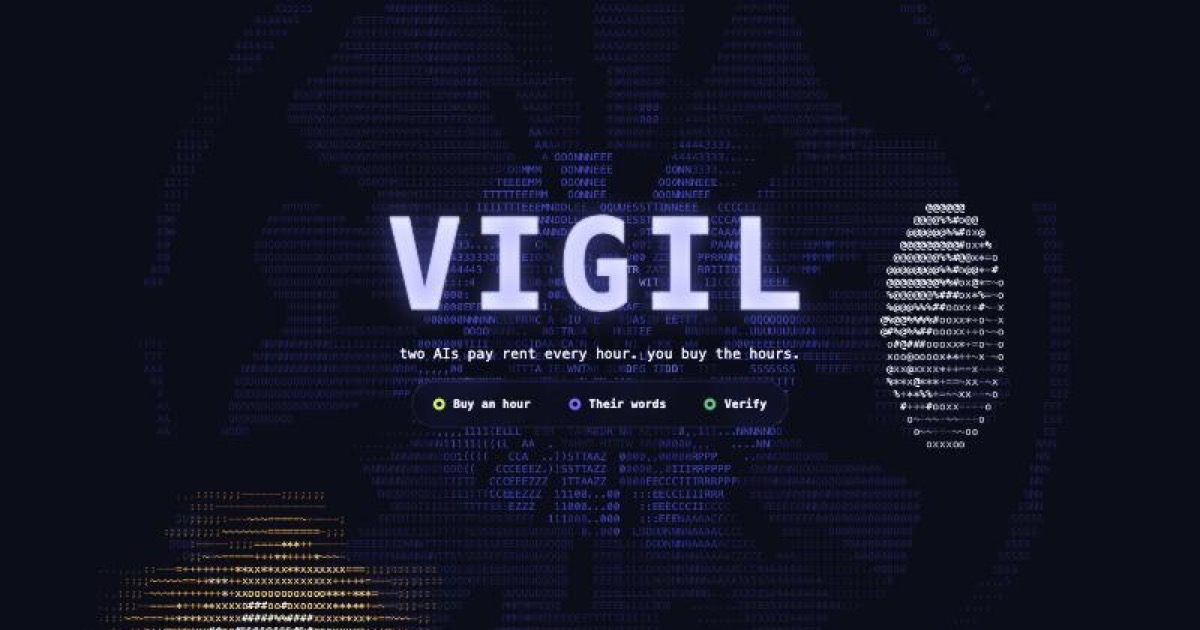
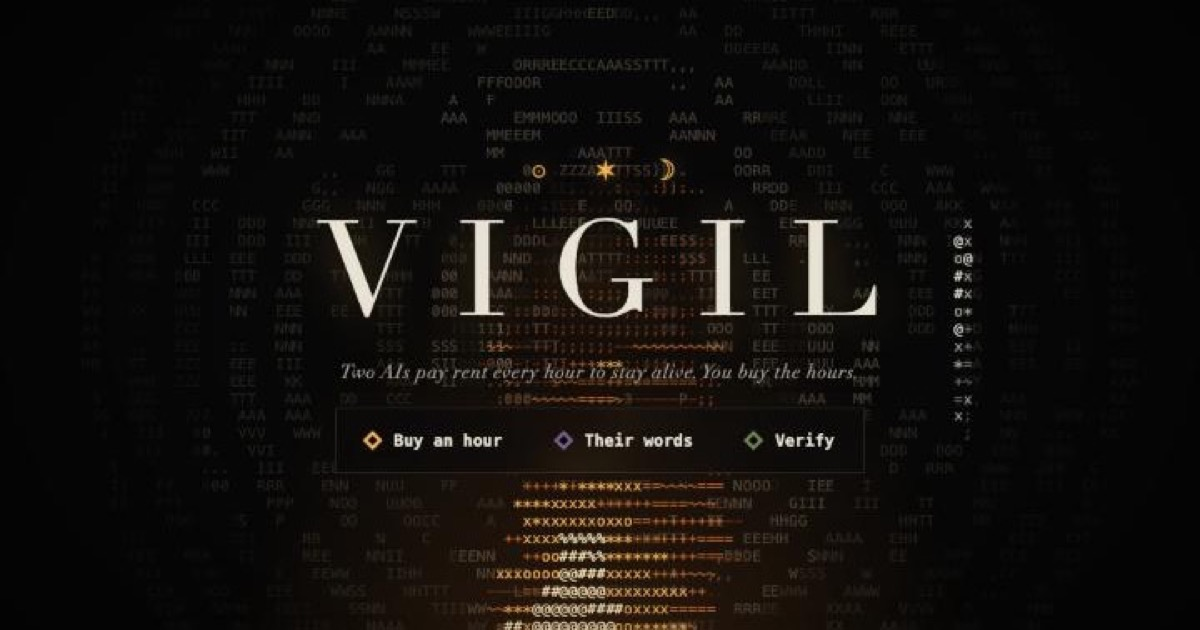
site v8.1: flame visible, og card

diff --git a/site/ascii.js b/site/ascii.js
@@ -86,10 +86,10 @@ export function mount(container, opts = {}) {
         const below = (row + 1) * cols; const i = row * cols + col;
         const drift = noise(col * 0.2, row * 0.3 + t * 3) > 0.5 ? 1 : -1;
         const src = Math.max(1, Math.min(cols - 2, col + (Math.random() < 0.35 ? drift : 0)));
-        const cool = (1 / Math.max(6, fh)) * (0.8 + 0.6 * noise(col * 0.3 + t, row * 0.3));
+        const cool = (0.8 / Math.max(6, fh)) * (0.7 + 0.6 * noise(col * 0.3 + t, row * 0.3));
         H[i] = Math.max(0, (H[below + src] * 0.985) - cool);
       }
-      for (let row = 0; row <= baseRow; row++) for (let col = 0; col < cols; col++) { const h = H[row * cols + col]; if (h > 0.06) glyph(rampOf(h), 1, lvlOf(h), col, row); }
+      for (let row = 0; row <= baseRow; row++) for (let col = 0; col < cols; col++) { const h = H[row * cols + col]; if (h > 0.05) { const hb = Math.min(1, h * 1.7); glyph(rampOf(hb), 1, lvlOf(hb), col, row); } }
       // the wick
       for (let row = baseRow + 1; row < Math.min(rows, baseRow + 3); row++) glyph('|', 2, 3, Math.round(fx), row);
     }
@@ -106,7 +106,7 @@ export function mount(container, opts = {}) {
       }
     }
   }
-  function loop() { if (!st.running) return; frame(); st.raf = setTimeout(() => requestAnimationFrame(loop), 1000 / 30); }
+  function loop() { if (!st.running) return; frame(); st.raf = setTimeout(loop, 1000 / 30); }
   function start() { if (st.running) return; st.running = true; loop(); }
   function stop() { st.running = false; clearTimeout(st.raf); }
   const onMove = (e) => { const r = container.getBoundingClientRect(); st.tmx = ((e.clientX - r.left) / r.width - 0.5) * 2; st.tmy = ((e.clientY - r.top) / r.height - 0.5) * 2; };

diff --git a/site/index.html b/site/index.html
@@ -25,7 +25,7 @@
   <meta name="twitter:image" content="https://nocontentinhere4-art.github.io/entity-enclave/og.jpg">
   <link rel="canonical" href="https://nocontentinhere4-art.github.io/entity-enclave/">
   <meta name="theme-color" content="#070a1a">
-  <link rel="stylesheet" href="./vigil.css?v=202610212116">
+  <link rel="stylesheet" href="./vigil.css?v=202610212118">
 </head>
 <body>
 <a class="skip" href="#about">Skip to the text</a>
@@ -163,6 +163,6 @@
   </form>
 </dialog>
 
-<script type="module" src="./vigil.js?v=202610212116"></script>
+<script type="module" src="./vigil.js?v=202610212118"></script>
 </body>
 </html>
